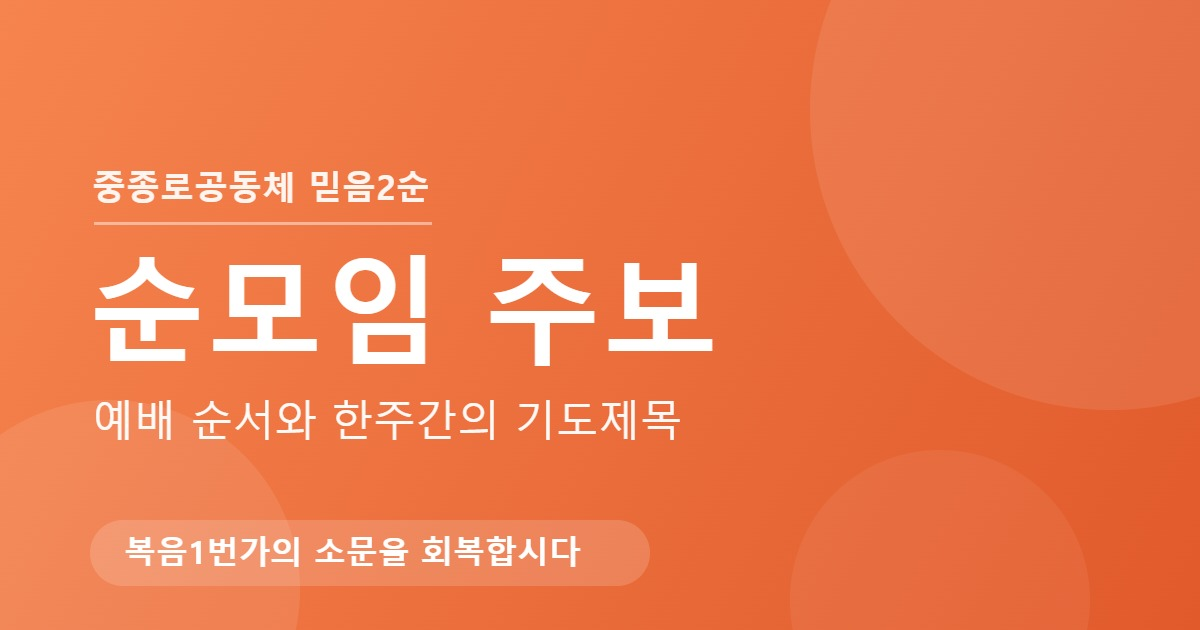
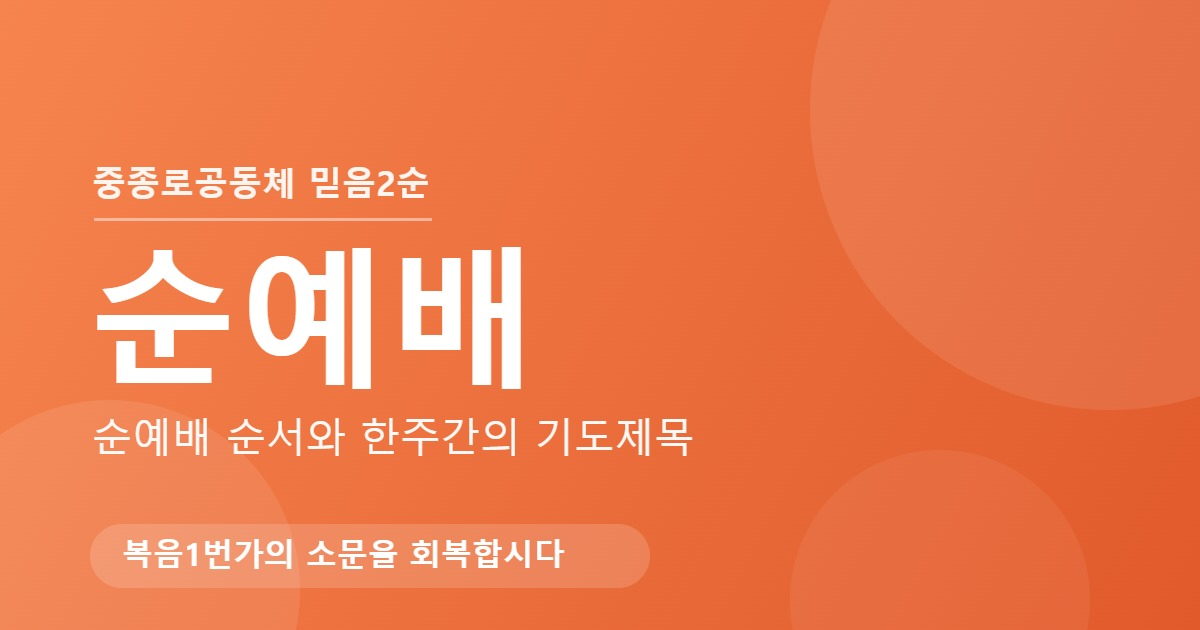
순예배 순서 15개 항목 개편 + 썸네일 제목 순예배로 변경

Changed region(s): [[0.0617, 0.3921, 0.6167, 0.7238], [0.0925, 0.8143, 0.5242, 0.9048], [0.0617, 0.2413, 0.37, 0.3619]]

diff --git a/sunmoim.html b/sunmoim.html
@@ -9,12 +9,12 @@
 <meta name="theme-color" content="#f4794b">
 <meta name="apple-mobile-web-app-capable" content="yes">
 <meta name="apple-mobile-web-app-status-bar-style" content="default">
-<title>순모임 주보</title>
-<meta name="description" content="예배 순서와 한주간의 기도제목을 확인하고 함께 기도해요.">
+<title>순예배</title>
+<meta name="description" content="순예배 순서와 한주간의 기도제목을 확인하고 함께 기도해요.">
 <meta property="og:type" content="website">
-<meta property="og:title" content="순모임 주보">
-<meta property="og:description" content="예배 순서와 한주간의 기도제목을 확인하고 함께 기도해요.">
-<meta property="og:image" content="https://cgn210-alt.github.io/jjr-sunmoim/og-image.jpg?v=1">
+<meta property="og:title" content="순예배">
+<meta property="og:description" content="순예배 순서와 한주간의 기도제목을 확인하고 함께 기도해요.">
+<meta property="og:image" content="https://cgn210-alt.github.io/jjr-sunmoim/og-image.jpg?v=2">
 <meta property="og:image:width" content="1200">
 <meta property="og:image:height" content="630">
 <meta property="og:url" content="https://cgn210-alt.github.io/jjr-sunmoim/sunmoim.html">
@@ -68,6 +68,15 @@
   .field:last-child{border-bottom:none;}
   .field .label{flex:none;width:80px;color:var(--ink-soft);font-size:14px;font-weight:700;padding-top:1px;}
   .field .value{flex:1;font-size:15px;outline:none;min-height:22px;word-break:break-word;}
+
+  /* 순예배 순서 (번호 목록) */
+  .worship{list-style:none;counter-reset:w;margin:0;padding:0;}
+  .worship>li{counter-increment:w;padding:11px 0;border-bottom:1px dashed var(--line);}
+  .worship>li:last-child{border-bottom:none;}
+  .wname{font-weight:800;font-size:15px;color:var(--ink);letter-spacing:-.2px;}
+  .wname::before{content:counter(w);display:inline-flex;align-items:center;justify-content:center;width:22px;height:22px;margin-right:8px;border-radius:50%;background:var(--brand-soft);color:var(--brand-deep);font-size:12px;font-weight:800;vertical-align:middle;}
+  .wval{font-size:14.5px;color:var(--ink-soft);outline:none;min-height:20px;line-height:1.6;margin-top:4px;padding-left:30px;white-space:pre-wrap;word-break:break-word;}
+  body.editing .wval:empty::before{content:'내용 입력';color:#d8b49c;}
 
   .highlight{background:var(--brand-soft);border-radius:14px;padding:12px 14px;margin-top:4px;}
   .highlight .big{font-size:16px;font-weight:800;color:var(--brand-deep);outline:none;}
@@ -183,53 +192,24 @@
 <div class="wrap">
 
   <div class="card">
-    <div class="card-head"><span class="dot"></span><h2>예배 순서</h2></div>
-    <div class="field"><div class="label">시작기도</div><div class="value" data-f="w_prayer">강성희 권사</div></div>
-    <div class="field"><div class="label">찬양</div><div class="value" data-f="w_praise">주님을 보게 하소서</div></div>
-    <div class="field"><div class="label">본문</div><div class="value" data-f="w_text">시편 119:1-16</div></div>
-    <div class="field"><div class="label">메시지</div><div class="value" data-f="w_message">온전하고 깨끗한 삶의 비결</div></div>
-  </div>
-
-  <div class="card">
-    <div class="card-head"><span class="dot"></span><h2>오늘의 나눔</h2></div>
-    <div class="highlight">
-      <div class="big" data-f="s_big">온전하고 깨끗한 삶의 비결</div>
-      <div class="sub" data-f="s_sub">인도 : 다함께</div>
-    </div>
-    <ul class="qlist" data-list="share">
-      <li><span class="num">1</span><span class="qtext">시편 기자는 어떤 사람에게 복이 있다고 말하나요? (1~2절)</span><button class="del" onclick="delItem(this)">✕</button></li>
-      <li><span class="num">2</span><span class="qtext">죄를 짓지 않도록 나를 지켜 준 하나님 말씀은 무엇인가요? 특정 상황에서 말씀을 떠올리려면 어떤 노력이 필요할지 나누어 보세요.</span><button class="del" onclick="delItem(this)">✕</button></li>
-    </ul>
-    <button class="additem" onclick="addItem('share')">＋ 나눔 질문 추가</button>
-    <div class="field" style="margin-top:6px;"><div class="label">마무리</div><div class="value" data-f="s_closing">순장</div></div>
-  </div>
-
-  <div class="card">
-    <div class="card-head"><span class="dot"></span><h2>합심기도</h2></div>
-    <ul class="qlist" data-list="pray">
-      <li><span class="num">1</span><span class="qtext">바쁘다는 이유로 말씀을 가까이하지 않았던 나태함을 회개하고, 자신의 마음과 행실과 삶이 날마다 말씀을 묵상하고 순종함을 통해 깨끗해지도록</span><button class="del" onclick="delItem(this)">✕</button></li>
-      <li><span class="num">2</span><span class="qtext">전 세계에서 전쟁으로 고통을 당하는 이들에게 주님의 위로와 소망이 임하길, 황폐해진 땅 가운데 복음의 씨가 뿌려지고 진정한 회복이 이루어지도록</span><button class="del" onclick="delItem(this)">✕</button></li>
-    </ul>
-    <button class="additem" onclick="addItem('pray')">＋ 기도제목 추가</button>
-  </div>
-
-  <div class="card">
-    <div class="card-head"><span class="dot"></span><h2>마무리 순서</h2></div>
-    <div class="field"><div class="label">마무리 기도</div><div class="value" data-f="e_prayer">순장 (순헌금 기도)</div></div>
-    <div class="field"><div class="label">순헌금</div><div class="value" data-f="e_offering">다함께</div></div>
-    <div class="field"><div class="label">주기도문</div><div class="value" data-f="e_lords">다같이</div></div>
-    <div class="field"><div class="label">광고</div><div class="value" data-f="e_notice">순장</div></div>
-  </div>
-
-  <div class="card">
-    <div class="card-head"><span class="dot"></span><h2>순헌금 입금 계좌</h2></div>
-    <div class="account">
-      <div class="bank" data-f="a_bank">카카오뱅크</div>
-      <div class="no" data-f="a_no">3333-15-6006510</div>
-      <div class="owner" data-f="a_owner">예금주 : 주웅현</div>
-      <button class="copybtn" onclick="copyAccount()">📋 계좌번호 복사</button>
-      <div class="note" data-f="a_note">순헌금은 위 통장으로 입금하시면 정리해서 공동체 순헌금 통장으로 입금됩니다.</div>
-    </div>
+    <div class="card-head"><span class="dot"></span><h2>순예배 순서</h2></div>
+    <ol class="worship">
+      <li><div class="wname">찬양</div><div class="wval" data-f="o1"></div></li>
+      <li><div class="wname">순 공동체성경읽기</div><div class="wval" data-f="o2"></div></li>
+      <li><div class="wname">모임을 위한 기도</div><div class="wval" data-f="o3"></div></li>
+      <li><div class="wname">한 주간 큐티 나눔</div><div class="wval" data-f="o4"></div></li>
+      <li><div class="wname">말씀 제목</div><div class="wval" data-f="o5"></div></li>
+      <li><div class="wname">도입질문</div><div class="wval" data-f="o6"></div></li>
+      <li><div class="wname">본문 속으로</div><div class="wval" data-f="o7"></div></li>
+      <li><div class="wname">생활 속으로</div><div class="wval" data-f="o8"></div></li>
+      <li><div class="wname">오늘 본문에 대한 큐티 나눔</div><div class="wval" data-f="o9"></div></li>
+      <li><div class="wname">메시지 속으로</div><div class="wval" data-f="o10"></div></li>
+      <li><div class="wname">중보기도</div><div class="wval" data-f="o11"></div></li>
+      <li><div class="wname">마무리 기도 &amp; 순헌금 기도</div><div class="wval" data-f="o12"></div></li>
+      <li><div class="wname">순헌금</div><div class="wval" data-f="o13">하나은행 010-5204-8055(정충균) / 순헌금은 예배 전, 후에 순계좌로 송금해 주세요</div></li>
+      <li><div class="wname">주기도문</div><div class="wval" data-f="o14">다같이</div></li>
+      <li><div class="wname">광고</div><div class="wval" data-f="o15">복음 1번가의 소문을 회복합시다</div></li>
+    </ol>
   </div>
 
   <div class="card">
@@ -244,7 +224,6 @@
     <ul class="plist" id="prayerList"></ul>
   </div>
 
-  <div class="footer-slogan" data-f="slogan">★ 복음1번가의 소문을 회복합시다! ★</div>
 
 </div>
 
@@ -615,20 +594,23 @@ function copyAll(){
   L.push('- 일시 : '+g('time'));
   L.push('- 장소 : '+g('place'));
   L.push('');
-  document.querySelectorAll('.wrap .card').forEach(card=>{
-    const h=card.querySelector('.card-head h2'); if(!h) return;
-    L.push('■ '+txt(h));
-    card.querySelectorAll('.field').forEach(f=> L.push('  · '+txt(f.querySelector('.label'))+' : '+txt(f.querySelector('.value'))));
-    const big=card.querySelector('.highlight .big');
-    if(big){ L.push('  "'+txt(big)+'"'); const sub=card.querySelector('.highlight .sub'); if(sub) L.push('  '+txt(sub)); }
-    card.querySelectorAll('.qlist li').forEach((li,i)=> L.push('  ('+(i+1)+') '+txt(li.querySelector('.qtext'))));
-    const guide=card.querySelector('.guide'); if(guide) L.push('  '+txt(guide));
-    card.querySelectorAll('.plist .pli').forEach(li=> L.push('  · '+txt(li.querySelector('.pname'))+' : '+txt(li.querySelector('.ptext'))));
-    const ac=card.querySelector('.account');
-    if(ac){ L.push('  '+txt(ac.querySelector('[data-f=a_bank]'))+' '+txt(ac.querySelector('[data-f=a_no]'))+' / '+txt(ac.querySelector('[data-f=a_owner]'))); L.push('  '+txt(ac.querySelector('[data-f=a_note]'))); }
+  const items=document.querySelectorAll('.worship > li');
+  if(items.length){
+    L.push('■ 순예배 순서');
+    items.forEach((li,i)=>{
+      const nm=txt(li.querySelector('.wname'));
+      const vl=txt(li.querySelector('.wval'));
+      L.push('  '+(i+1)+'. '+nm+(vl?(' : '+vl):''));
+    });
     L.push('');
-  });
-  L.push(g('slogan'));
+  }
+  const guide=document.querySelector('.guide');
+  const prayers=document.querySelectorAll('#prayerList .pli');
+  if(guide || prayers.length){
+    L.push('■ 한주간의 기도제목');
+    if(guide) L.push('  '+txt(guide));
+    prayers.forEach(li=> L.push('  · '+txt(li.querySelector('.pname'))+' : '+txt(li.querySelector('.ptext'))));
+  }
   copyText(L.join('\n')).then(ok=> toast(ok?'전체 내용이 복사되었습니다.':'복사 실패'));
 }
 
